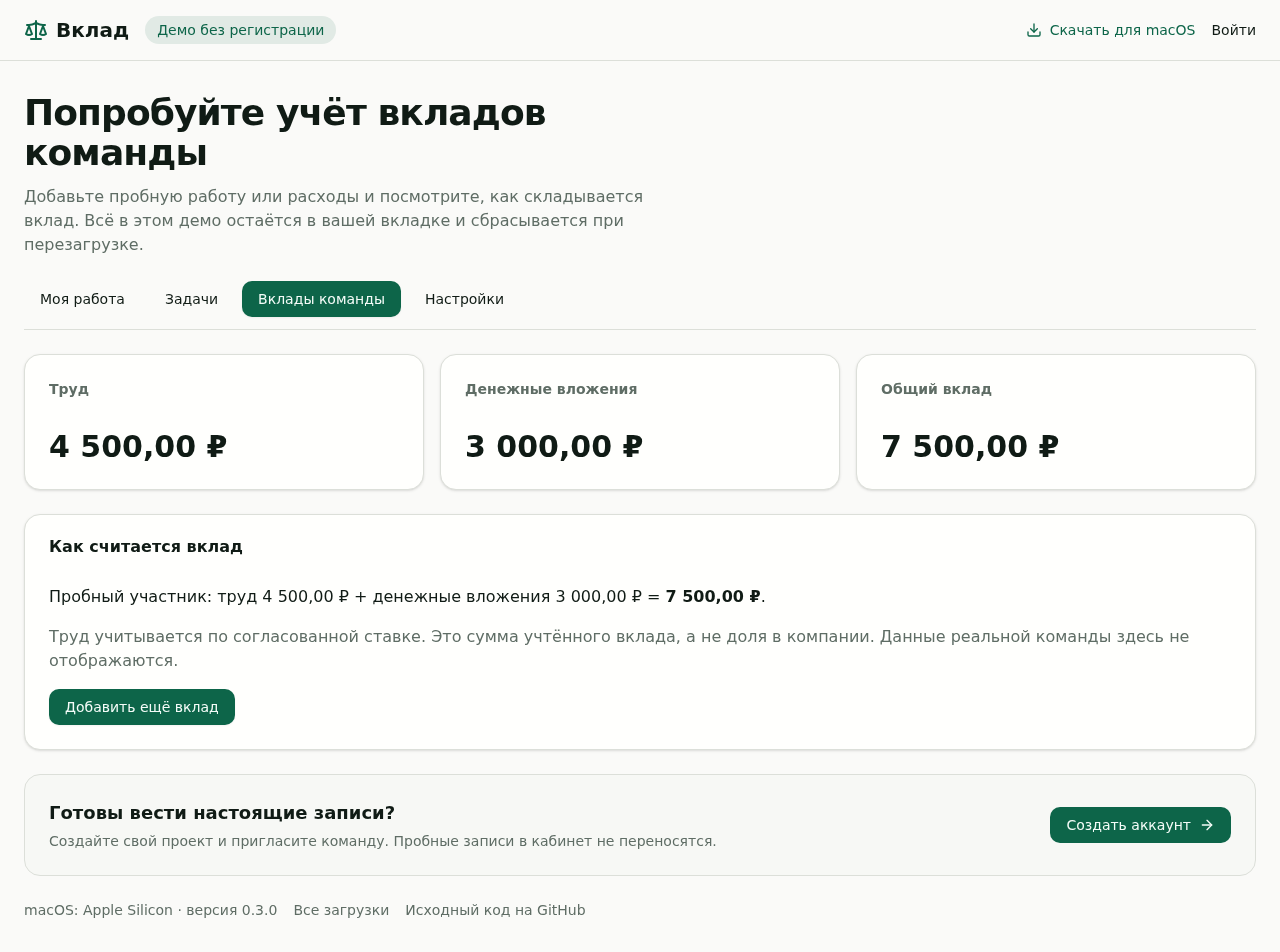
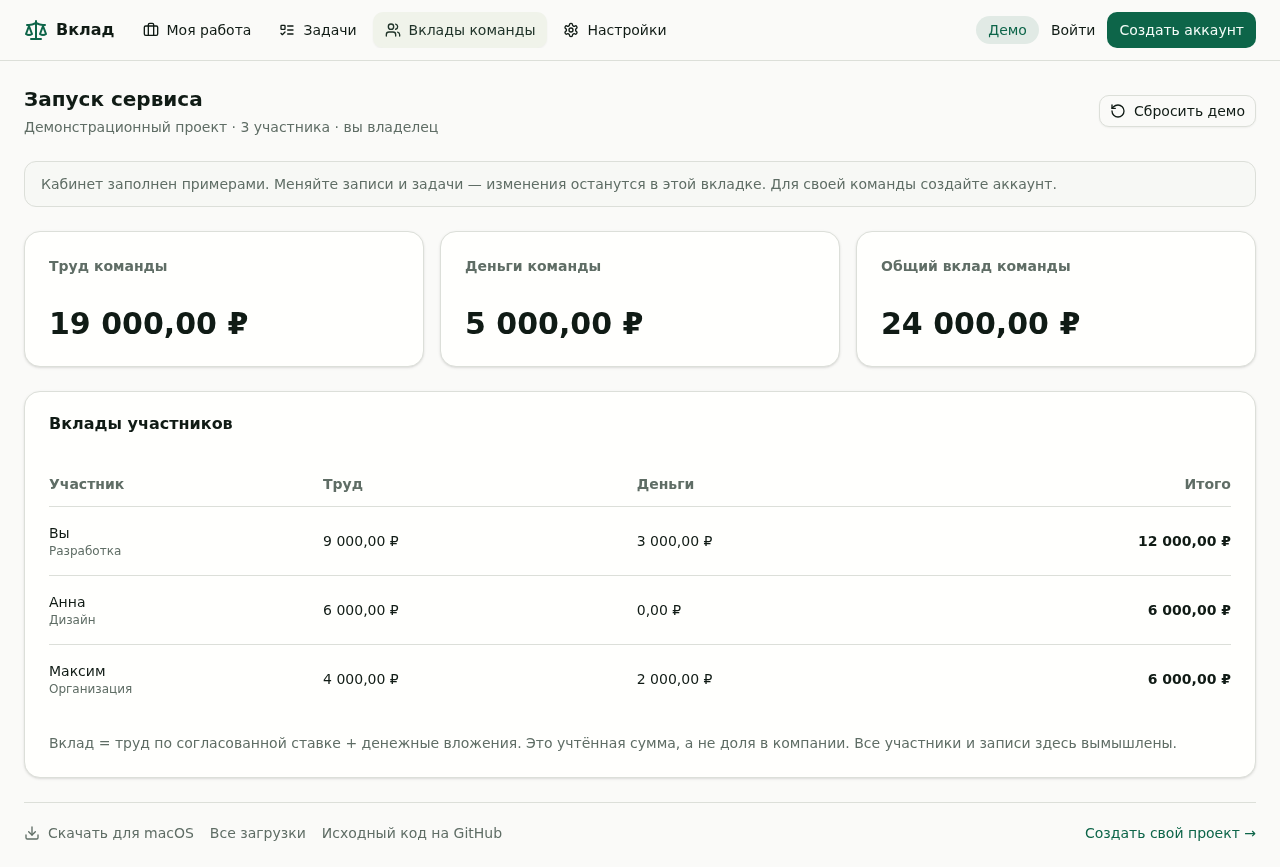
Clarify judge JSON contract and preserve invalid answer receipts; document seeded demo

diff --git a/web/src/lib/llm.ts b/web/src/lib/llm.ts
@@ -41,21 +41,30 @@ ${rc}
 ${evidence}
 - Ограничения пакета: ${packet.limitations.join("; ")}
 
-Ответ строго в формате JSON (schema_version "2.0", packet_id из пакета):
+Ответ — один JSON-объект. Выбери одно значение для каждого поля:
+- assessment: assessable или needs_information.
+- category: dev, research, design, ops, learning, sales или org.
+- grade: junior, middle, senior, expert или unknown.
+- complexity: целое число от 1 до 5 или null.
+- typical_duration: целые секунды low_seconds/high_seconds или null.
+- price_status: rate_available или no_price_data. Без ставки rate_id обязательно null.
+- При needs_information typical_duration обязательно null, price_status=no_price_data, missing_information должен перечислять, чего не хватает.
+- В evidence_ids только существующие ID. Поля limitations/missing_information — массивы непустых строк; если замечаний нет, [].
+Пример структуры (замени значения своей оценкой, не добавляй полей):
 {
   "schema_version": "2.0",
   "packet_id": "${packet.packet_id}",
-  "assessment": "assessable" | "needs_information",
-  "category": "dev|research|design|ops|learning|sales|org",
-  "grade": "junior|middle|senior|expert|unknown",
-  "complexity": 1..5 | null,
-  "typical_duration": { "low_seconds": N, "high_seconds": N } | null,
-  "price_status": "rate_available" | "no_price_data",
-  "rate_id": "id из справочника" | null,
-  "evidence_ids": ["e001", ...],
-  "limitations": ["..."],
-  "missing_information": ["..."],
-  "rationale": "короткое обоснование (1-2 предложения)"
+  "assessment": "assessable",
+  "category": "dev",
+  "grade": "middle",
+  "complexity": 2,
+  "typical_duration": { "low_seconds": 1800, "high_seconds": 3600 },
+  "price_status": "no_price_data",
+  "rate_id": null,
+  "evidence_ids": ["${packet.evidence[0]?.evidence_id ?? "e001"}"],
+  "limitations": [],
+  "missing_information": [],
+  "rationale": "Короткое обоснование (1–2 предложения)."
 }`
 }
 
@@ -119,10 +128,10 @@ export async function runJudgeSlot(
   const parsed = extractJson(raw)
 
   const parsedResult = JudgeAnswerSchema.safeParse(parsed)
-  if (!parsedResult.success) throw new Error("Invalid judge JSON")
+  if (!parsedResult.success) throw Object.assign(new Error("Некорректный JSON оценки"), { judgeReceipt: { raw, metadata: completion, validationErrors: parsedResult.error.issues } })
   const answer = parsedResult.data
   const errors = validateAnswer(packet, answer)
-  if (errors.length) throw new Error(errors.join("; "))
+  if (errors.length) throw Object.assign(new Error(errors.join("; ")), { judgeReceipt: { raw, metadata: completion, validationErrors: errors } })
   const parseError = null
 
   // derive prices from the validated answer

diff --git a/web/tests/subscription.test.ts b/web/tests/subscription.test.ts
@@ -28,3 +28,17 @@ test("demo starts populated, reset returns fresh independent examples, personal 
  entries[0].amountMinor=1;expect(demoEntries()[0].amountMinor).toBe(900000)
  const tasks=demoTasks();tasks[0].done=false;expect(demoTasks()[0].done).toBe(true)
 })
+
+test("invalid model answer retains raw response and provider receipt without fabricating an assessment",async()=>{
+ const previous=globalThis.fetch,oldMode=process.env.VKLAD_LLM_MODE,oldKey=process.env.VKLAD_MINIMAX_KEY_FILE
+ const temp=mkdtempSync(join(tmpdir(),"vklad-invalid-slot-")),file=join(temp,"test.key");writeFileSync(file,"synthetic-key",{mode:0o600});process.env.VKLAD_LLM_MODE="subscription";process.env.VKLAD_MINIMAX_KEY_FILE=file
+ globalThis.fetch=(async()=>Response.json({model:SUBSCRIPTION_MODELS[1],id:"invalid-answer-receipt",content:[{type:"text",text:'{"unsupported":true}'}],stop_reason:"end_turn"})) as unknown as typeof fetch
+ try {
+  const {runJudgeSlot}=await import("../src/lib/llm")
+  let caught:any
+  try{await runJudgeSlot(SUBSCRIPTION_MODELS[1],1,{packet_id:"synthetic-packet",rate_card_id:"synthetic-rates",goal:"Synthetic work",constraints:[],available_tools:[],outcome:"Synthetic result",result_status:"unknown",evidence:[{evidence_id:"e001",kind:"participant_statement",text:"Synthetic evidence"}],limitations:[]} as any,[])}catch(e){caught=e}
+  expect(caught?.judgeReceipt.raw).toBe('{"unsupported":true}')
+  expect(caught?.judgeReceipt.metadata.providerResponseId).toBe("invalid-answer-receipt")
+  expect(caught?.judgeReceipt.validationErrors.length).toBeGreaterThan(0)
+ }finally{globalThis.fetch=previous;if(oldMode===undefined)delete process.env.VKLAD_LLM_MODE;else process.env.VKLAD_LLM_MODE=oldMode;if(oldKey===undefined)delete process.env.VKLAD_MINIMAX_KEY_FILE;else process.env.VKLAD_MINIMAX_KEY_FILE=oldKey;rmSync(temp,{recursive:true})}
+})

diff --git a/web/src/app/api/tasks/[id]/assess/route.ts b/web/src/app/api/tasks/[id]/assess/route.ts
@@ -161,7 +161,7 @@ export async function POST(req: NextRequest, ctx: { params: Promise<{ id: string
         })
         await db.judgeRun.update({
           where: { id: slot.id },
-          data: { status: "done", responseJson: respJson, error: result.parseError ?? "" },
+          data: { status: "done", responseJson: respJson, usageJson: JSON.stringify(result.metadata.usage), error: result.parseError ?? "" },
         })
         responses.push({
           modelKey,
@@ -185,7 +185,7 @@ export async function POST(req: NextRequest, ctx: { params: Promise<{ id: string
       } catch (e: any) {
         await db.judgeRun.update({
           where: { id: slot.id },
-          data: { status: "failed", error: String(e?.message ?? e).slice(0, 500) },
+          data: { status: "failed", error: String(e?.message ?? e).slice(0, 500), responseJson: JSON.stringify(e.judgeReceipt ?? {}) },
         })
       }
     }
@@ -198,6 +198,7 @@ export async function POST(req: NextRequest, ctx: { params: Promise<{ id: string
     where: { id: round.id },
     data: { status, aggregateJson: JSON.stringify(agg) },
   })
+  await db.task.updateMany({ where: { id: task.id, status: "assessing", activeAssessmentId: round.id }, data: { status: task.status === "assessing" ? "in_progress" : task.status } })
 
   // record a job for traceability
   await db.job.create({

diff --git a/web/src/components/views/tasks-view.tsx b/web/src/components/views/tasks-view.tsx
@@ -1308,7 +1308,7 @@ function RoundCard({
     reviewReasons: [],
     perModel: [],
     validCount: 0,
-    totalCount: 9,
+    totalCount: 6,
     financialEffectMinor: 0,
     ...parseJson<Partial<Aggregate>>(round.aggregateJson, {}),
   }
@@ -1482,7 +1482,7 @@ function RoundCard({
             className="h-7"
             onClick={toggleExpand}
           >
-            {expanded ? "Скрыть судей" : "9 ответов судей"}
+            {expanded ? "Скрыть судей" : `${round._count.judgeRuns} ответов судей`}
           </Button>
         </div>
       </div>

diff --git a/README.md b/README.md
@@ -7,12 +7,12 @@
 - **Работа и деньги вместе.** Задачи, рабочие сессии и расходы складываются в общий вклад.
 - **Труд по согласованной ставке.** Учтённые часы переводятся в денежную сумму; вклад не определяет долю в компании.
 - **Несколько проектов в одном аккаунте.** Создавайте свой проект, принимайте приглашения в чужие и переключайтесь между ними. Права и записи разделены по проектам.
-- **Демо без регистрации.** Попробуйте учёт в браузере, затем создайте аккаунт и пригласите команду.
+- **Заполненный демо-кабинет без регистрации.** Посмотрите примеры задач, отчётов и вкладов, затем создайте свой проект.
 - **Клиент для Mac.** Локальная запись Screenpipe запускается пользователем и остаётся на его компьютере.
 
 ## Начать пользоваться
 
-1. Откройте [демо](https://vklad.bezrabotnyi.com/demo), добавьте пробную работу или расходы и посмотрите итог.
+1. Откройте [демо](https://vklad.bezrabotnyi.com/demo), изучите готовые примеры, добавьте пробную работу или расходы и посмотрите итог.
 2. [Создайте аккаунт и свой проект](https://vklad.bezrabotnyi.com/login?register=1). Демо-записи остаются в текущей вкладке до перезагрузки и не переносятся в кабинет.
 3. Пригласите команду ссылкой из кабинета. Участники с существующим аккаунтом могут принять приглашение без повторной регистрации.
 
@@ -24,7 +24,7 @@
 
 ![Демо Вклада: учёт работы, расходов и история пробных вкладов](docs/screenshots/demo-work-ru.png)
 
-**Общий вклад: 3 часа × 1 500 ₽ + 3 000 ₽ расходов = 7 500 ₽**
+**Общий вклад демонстрационной команды**
 
 ![Демо Вклада: расчёт общего вклада команды](docs/screenshots/demo-team-ru.png)
 
@@ -43,6 +43,7 @@ curl -fLO https://vklad.bezrabotnyi.com/downloads/Vklad-macOS-arm64-v0.3.0.dmg
 ## Документация
 
 - [Проекты, регистрация и приглашения](docs/PROJECTS.md)
+- [Реальные оценки через подписки GLM и MiniMax](docs/SUBSCRIPTIONS.md)
 - [Mac-клиент](macos/README.md) · [Windows-клиент](windows/README.md)
 - [Запуск из исходников и настройки моделей](docs/PILOT.md)
 - [Статус прежнего пилота](docs/STATUS.md) · [Поставка 0.2.0](docs/RELEASE-0.2.0.md)

diff --git a/docs/SUBSCRIPTIONS.md b/docs/SUBSCRIPTIONS.md
@@ -1,0 +1,13 @@
+# Оценки задач через подписки
+
+Рабочий кабинет может оценивать утверждённый автором отчёт двумя настоящими моделями: `glm-5.3-flash` через Z.AI Coding Plan и `MiniMax-M3.1-Flash-Preview` через MiniMax M Plan. Каждая модель выполняет три отдельных прогона. Ответы проверяются по схеме, ссылки на источники — по обезличенному пакету. Оценка ИИ не создаёт финансовую запись.
+
+Для собственного сервера задайте `VKLAD_LLM_MODE=subscription`, `VKLAD_GLM_KEY_FILE` и `VKLAD_MINIMAX_KEY_FILE` — пути к отдельным защищённым файлам ключей. Ключи находятся только на сервере и не отправляются браузеру. Для разработки без подписочного режима остаётся прежний адаптер OmniRoute. В подписочном режиме скрытого переключения на другой шлюз нет.
+
+Используются Anthropic-compatible endpoints: Z.AI `https://api.z.ai/api/anthropic/v1/messages` и MiniMax `https://api.minimax.io/anthropic/v1/messages`. Запрошенная и возвращённая модели должны совпасть; thinking-блоки не считаются ответом, обрезанный или некорректный JSON не засчитывается. Сохранённая оценка содержит provider, request ID, provider response ID, usage и исходный ответ. HTTP-ошибка не приводит к автоматическому повтору.
+
+Без подходящего рыночного справочника цена отображается как неизвестная, а не как ноль. Согласованная ставка труда и его учёт независимы от оценки ИИ.
+
+Демо — локальный заполненный кабинет с вымышленными участниками, задачами и вкладами. Его изменения сбрасываются к исходным примерам при перезагрузке или кнопкой «Сбросить демо». Демо не делает запросы к моделям, не записывает экран и не читает рабочие данные.
+
+Официальные источники: [Z.AI Coding Plan](https://docs.z.ai/devpack/overview), [Z.AI Anthropic interface](https://docs.z.ai/devpack/tool/claude), [MiniMax Anthropic API](https://platform.minimax.io/docs/api-reference/text-anthropic-api). Названия и доступ проверены 13 октября 2026; состав подписок может измениться.
